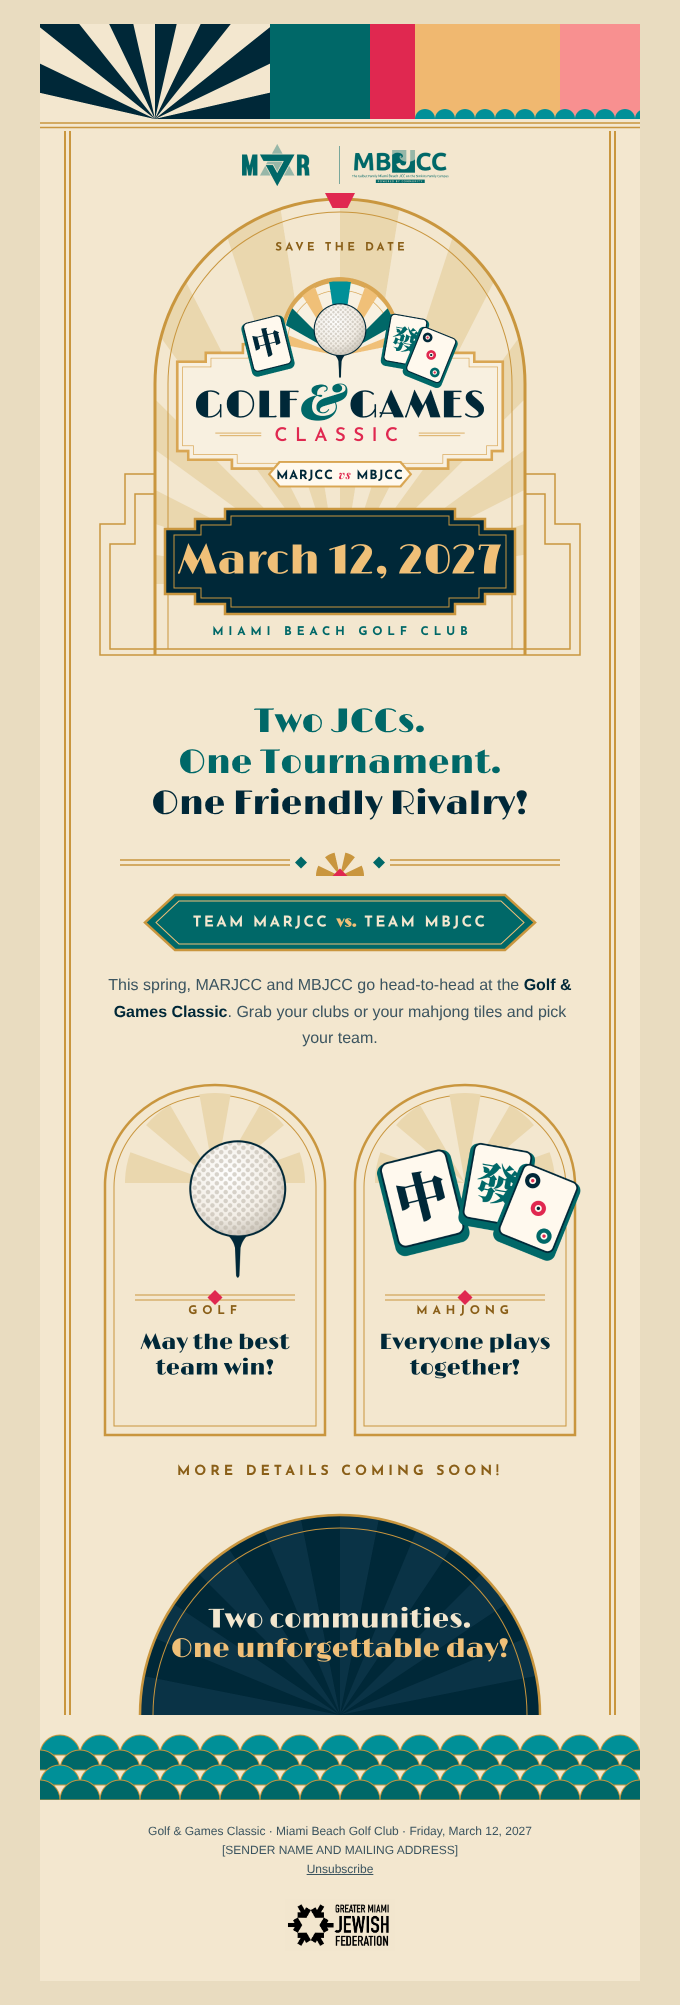
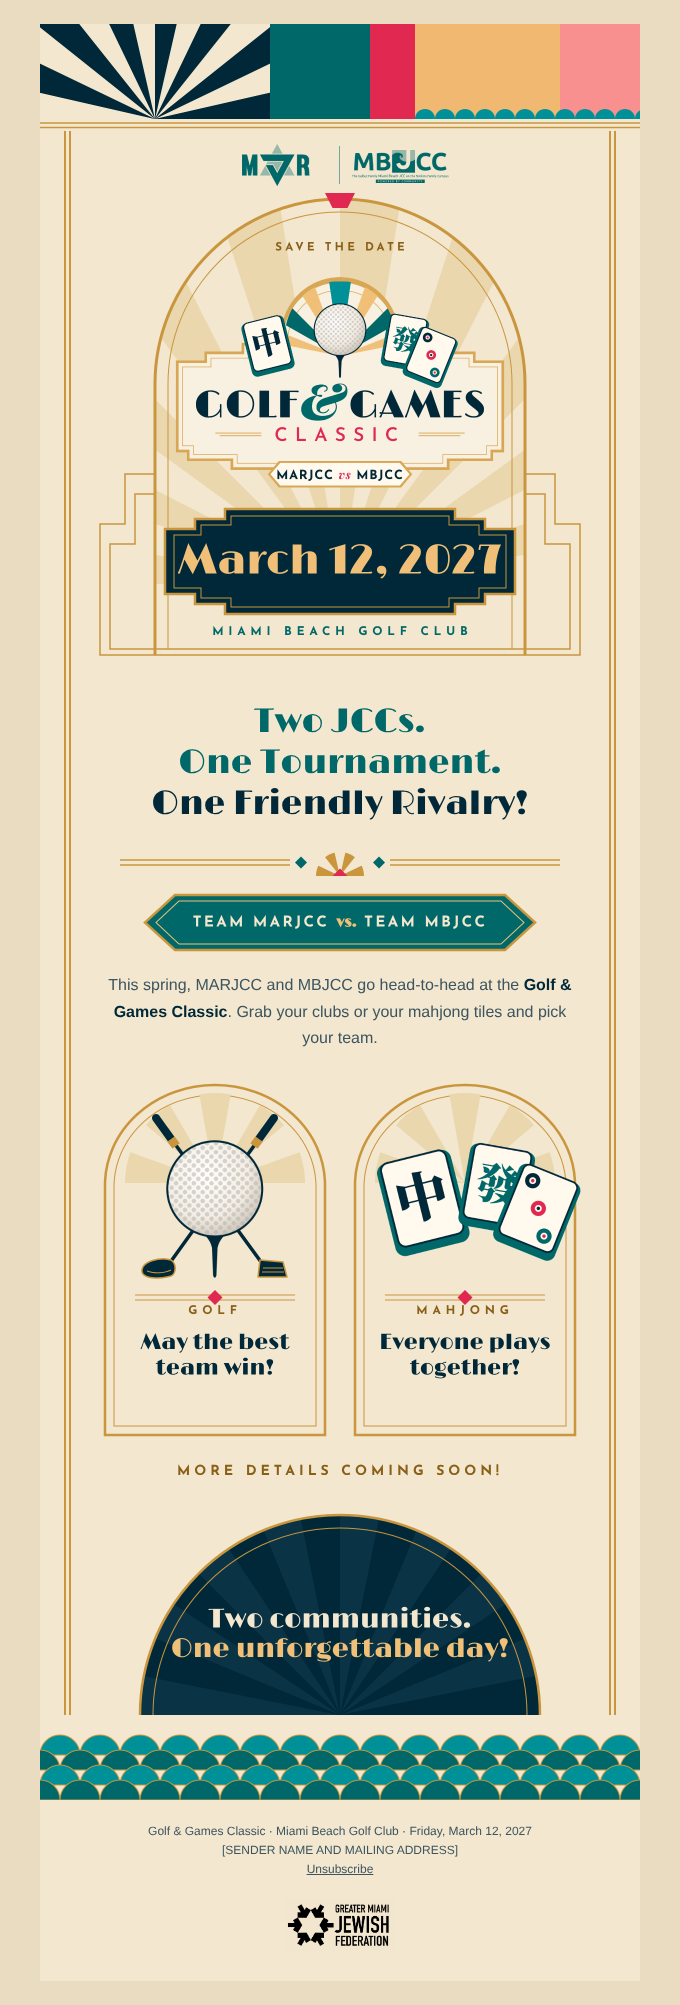
Art Deco v2 exploration: centered golf ball, crossed golf clubs
Claude-Session: https://claude.ai/code/session_014Yf17Fk2qdVoQEw95c3A5W

Changed region(s): [[0.2162, 0.5566, 0.4324, 0.6494]]

diff --git a/explorations/email-art-deco-beige-v2/src/parts.html b/explorations/email-art-deco-beige-v2/src/parts.html
@@ -64,8 +64,23 @@
 <div class="part" id="cards" style="height:760px">
 <svg width="1200" height="760" class="abs" style="inset:0">
   <g id="cardL" transform="translate(130 30)"></g><g id="cardR" transform="translate(630 30)"></g>
+  <g id="clubs">
+    <!-- iron: grip top-left, blade bottom-right -->
+    <line x1="232" y1="96" x2="448" y2="392" stroke="#002838" stroke-width="7" stroke-linecap="round"/>
+    <line x1="232" y1="96" x2="268" y2="146" stroke="#002838" stroke-width="16" stroke-linecap="round"/>
+    <line x1="262" y1="138" x2="272" y2="152" stroke="#C9963E" stroke-width="18"/>
+    <path d="M440 380 L486 384 L494 414 L436 414 Z" fill="#002838" stroke="#C9963E" stroke-width="3" stroke-linejoin="round"/>
+    <path d="M446 396 H486 M444 404 H488" stroke="#C9963E" stroke-width="2"/>
+    <!-- driver: grip top-right, round head bottom-left -->
+    <line x1="468" y1="96" x2="258" y2="388" stroke="#002838" stroke-width="7" stroke-linecap="round"/>
+    <line x1="468" y1="96" x2="432" y2="146" stroke="#002838" stroke-width="16" stroke-linecap="round"/>
+    <line x1="438" y1="138" x2="428" y2="152" stroke="#C9963E" stroke-width="18"/>
+    <path d="M262 380 C 240 374, 206 382, 204 400 C 202 416, 232 420, 262 412 C 272 408, 274 388, 262 380 Z" fill="#002838" stroke="#C9963E" stroke-width="3"/>
+    <path d="M214 402 C 230 408, 250 406, 262 400" fill="none" stroke="#C9963E" stroke-width="2"/>
+  </g>
+
 </svg>
-<img class="abs" src="ball.png" style="top:120px;left:278px;height:300px">
+<img class="abs" src="ball.png" style="top:120px;left:232px;height:300px">
 <img class="abs" src="tile.png" style="top:150px;left:665px;height:230px">
 <img class="abs" src="tiles.png" style="top:140px;left:830px;height:250px">
 <div class="abs caps" style="top:470px;left:130px;width:440px;text-align:center;color:#8A5F18;font-size:24px;letter-spacing:.4em">Golf</div>
